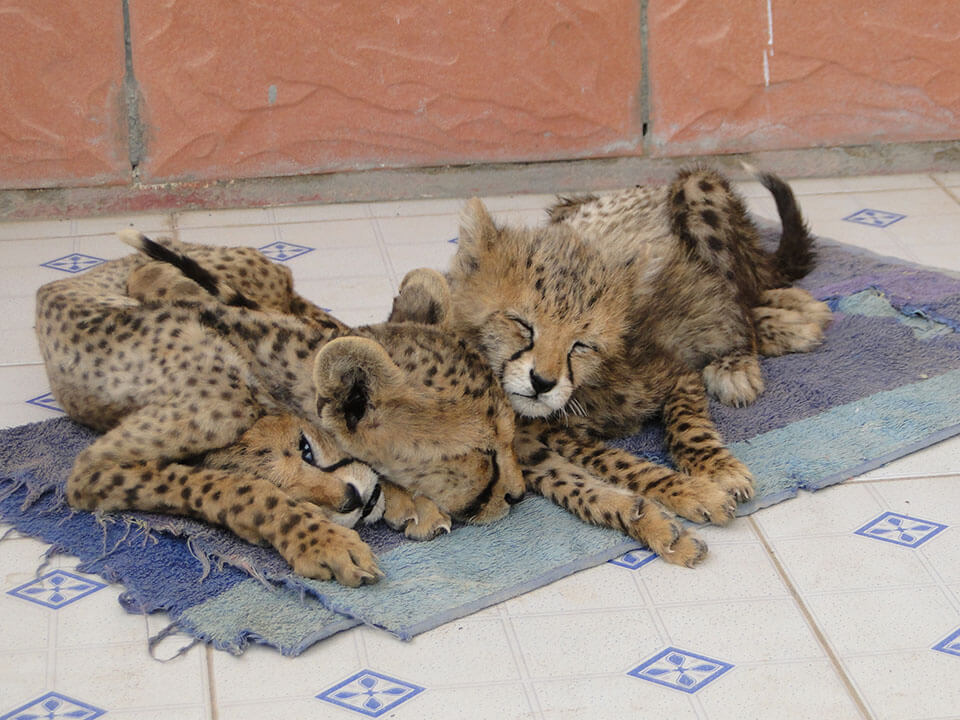
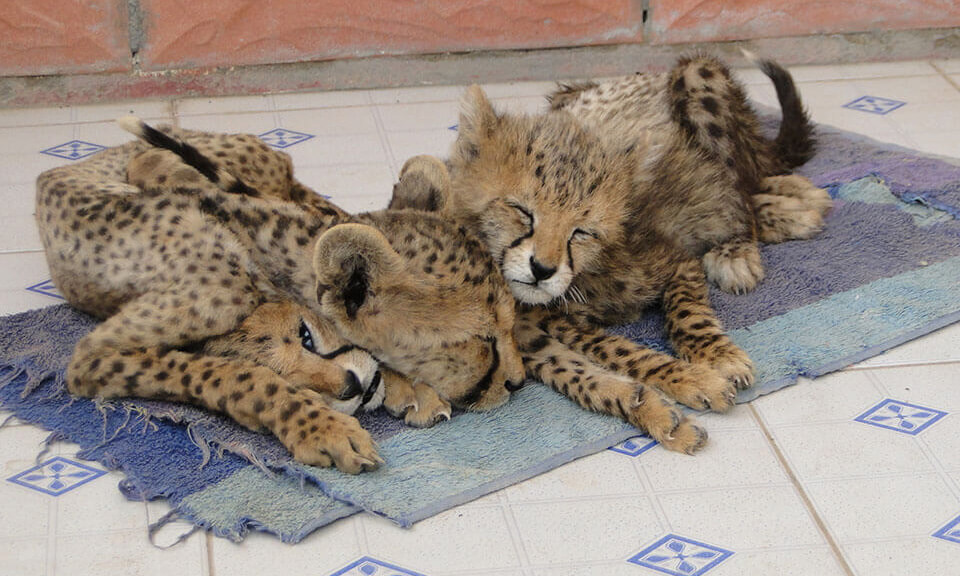
Fix for Issue 155

diff --git a/src/components/future/FuturePage_Subsection_StoppingIllegalWildlifeTrades.js b/src/components/future/FuturePage_Subsection_StoppingIllegalWildlifeTrades.js
@@ -131,7 +131,7 @@ export default class FuturePageSubsectionStoppingIllegalWildlifeTrades extends R
         <CenteredFullWidthContainer width={960}>
           <ImageSlidingGalleryDiscrete
             width={960}
-            height={640}
+            height={576}
             slides={[
               {
                 image: image_cheetah_rescue_01,
